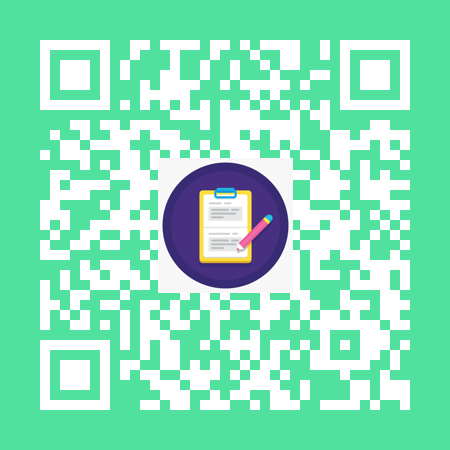
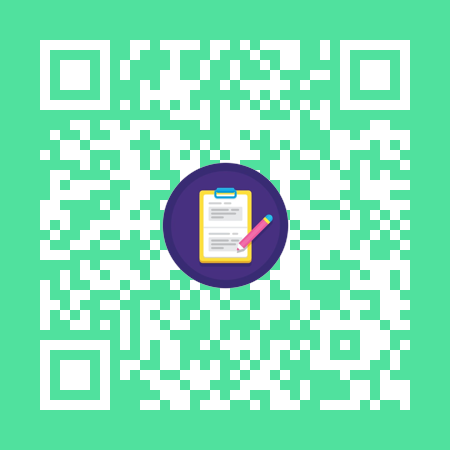
feat: qr code

Changed region(s): [[0.4356, 0.3422, 0.6533, 0.56], [0.3422, 0.56, 0.6533, 0.6533], [0.3422, 0.3422, 0.4044, 0.56]]

diff --git a/qr_code_generator.py b/qr_code_generator.py
@@ -44,5 +44,5 @@ def create_qrcode_with_icon(link, file_name="qrcode.png", icon_path="icone.png",
     except Exception as e:
         print(f"Erro ao gerar QR Code: {e}")
 
-link = 'https://forms.gle/333vZKcQFjDKqNu79'
-create_qrcode_with_icon(link, "qr_code.png", "formulario.jfif", 0.3)
+link = 'https://www.instagram.com/imc.jovem/'
+create_qrcode_with_icon(link, "qr_code_insta_imc_jovem.png", "instagram.png", 0.4)
